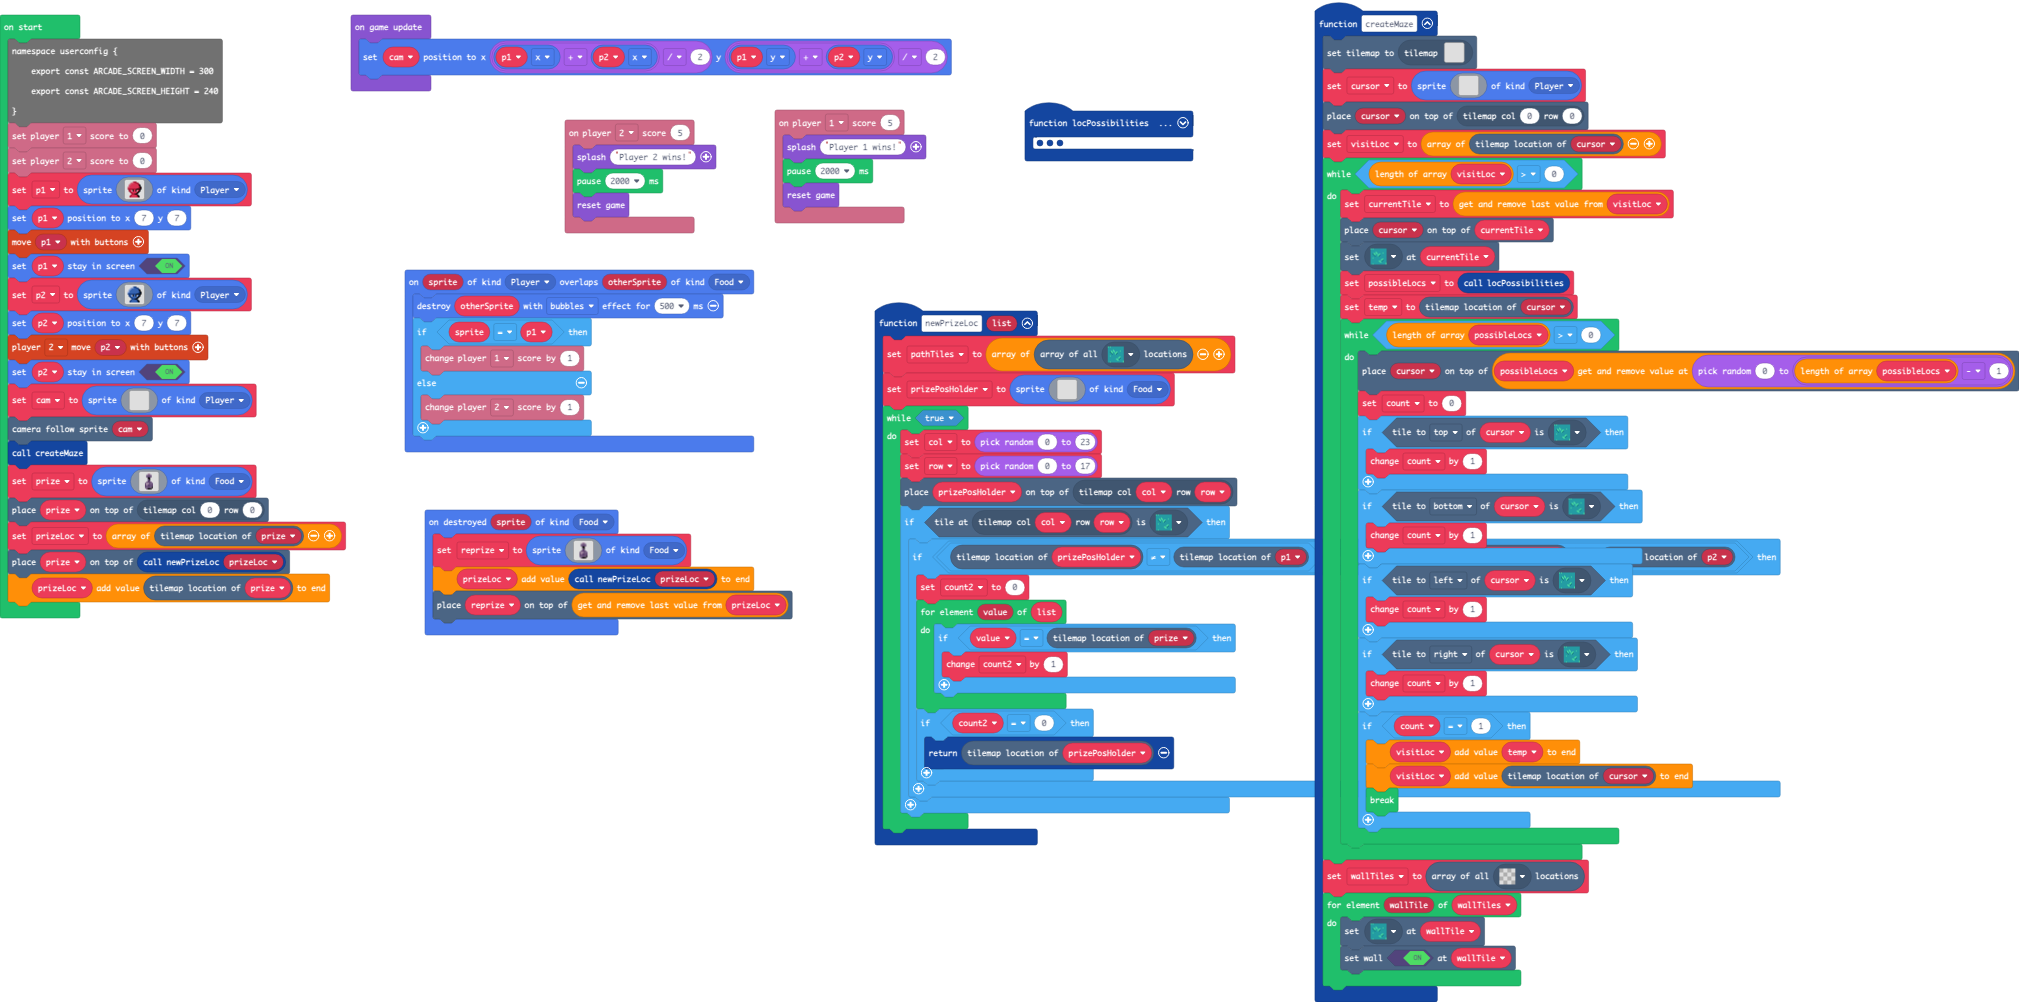
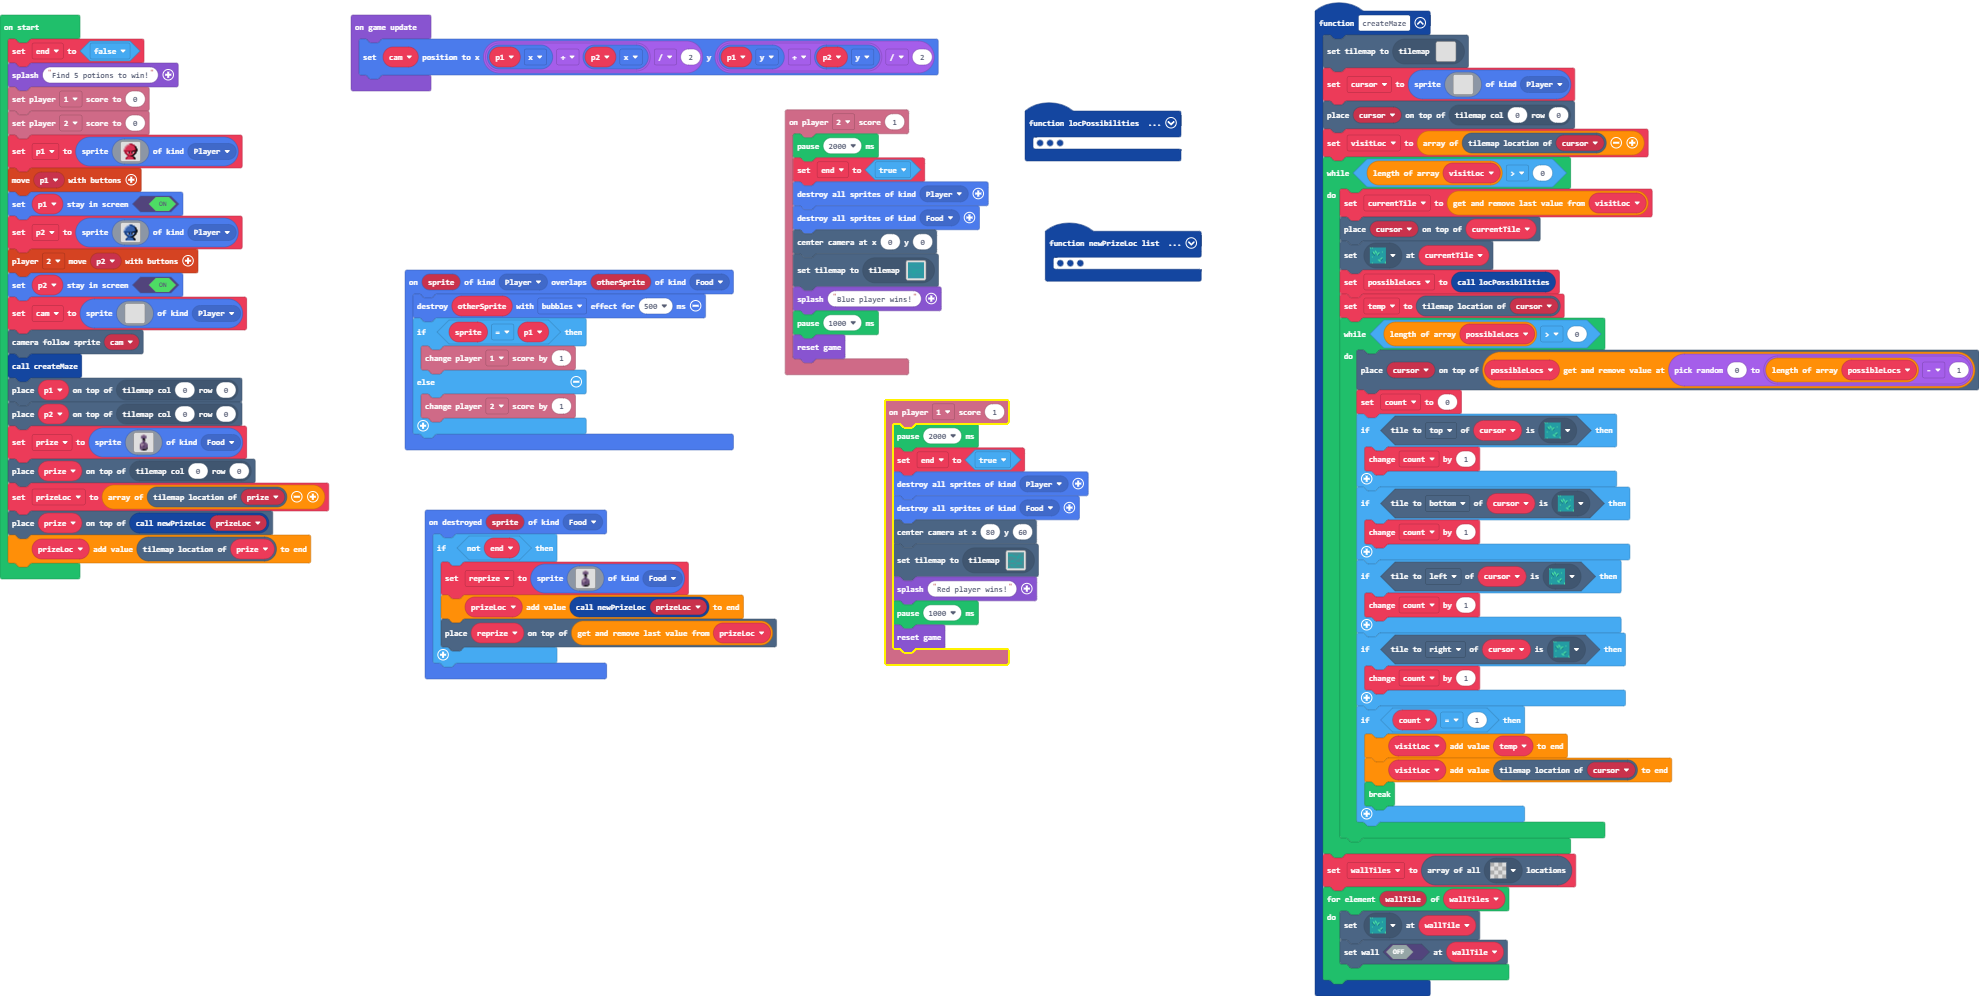
add end screen that deletes sprites; add if statement to respawn to prevent respawn on end screen

Changed region(s): [[0.1541, 0.0, 1.0, 1.0], [0.0, 0.0311, 0.4007, 0.6847], [0.524, 0.2179, 0.6165, 0.2801]]

diff --git a/tilemap.g.ts b/tilemap.g.ts
@@ -6,6 +6,10 @@ namespace myTiles {
     export const tile1 = image.ofBuffer(hex``);
     //% fixedInstance jres blockIdentity=images._tile
     export const tile2 = image.ofBuffer(hex``);
+    //% fixedInstance jres blockIdentity=images._tile
+    export const tile3 = image.ofBuffer(hex``);
+    //% fixedInstance jres blockIdentity=images._tile
+    export const tile4 = image.ofBuffer(hex``);
 
     helpers._registerFactory("tilemap", function(name: string) {
         switch(helpers.stringTrim(name)) {
@@ -65,6 +69,63 @@ namespace myTiles {
 . . . . . . . . . . . . . . . . . . . 
 . . . . . . . . . . . . . . . . . . . 
 `, [myTiles.transparency16], TileScale.Sixteen);
+            case "level5":
+            case "level5":return tiles.createTilemap(hex`1000100000000000000000000000000000000000000000000000000000000000000000000000000000000000000000000000000000000000000000000000000000000000000000000000000000000000000000000000000000000000000000000000000000000000000000000000000000000000000000000000000000000000000000000000000000000000000000000000000000000000000000000000000000000000000000000000000000000000000000000000000000000000000000000000000000000000000000000000000000000000000000000000000000000000000000000000000000000000000000000000000000000000000000000000000000000000`, img`
+. . . . . . . . . . . . . . . . 
+. . . . . . . . . . . . . . . . 
+. . . . . . . . . . . . . . . . 
+. . . . . . . . . . . . . . . . 
+. . . . . . . . . . . . . . . . 
+. . . . . . . . . . . . . . . . 
+. . . . . . . . . . . . . . . . 
+. . . . . . . . . . . . . . . . 
+. . . . . . . . . . . . . . . . 
+. . . . . . . . . . . . . . . . 
+. . . . . . . . . . . . . . . . 
+. . . . . . . . . . . . . . . . 
+. . . . . . . . . . . . . . . . 
+. . . . . . . . . . . . . . . . 
+. . . . . . . . . . . . . . . . 
+. . . . . . . . . . . . . . . . 
+`, [myTiles.transparency16], TileScale.Sixteen);
+            case "level6":
+            case "level6":return tiles.createTilemap(hex`1000100002020202020202020202020202020202020202020202020202020202020202020101010101020202020202010102020201010101010101020202010102020202020202020201010101010102020201020202020202020202020101010101010202020202020202020201020202020202020202020202010101020202020101010101020101010202020202020101020202010101010101010202020202020202020202020202020201010101010102020202020202020202020101010101020202020101010101010102020202020202020202010102020202020202020202020102020202010101020202020202020201010202020202020101010102020202`, img`
+. . . . . . . . . . . . . . . . 
+. . . . . . . . . . . . . . . . 
+. . . . . . . . . . . . . . . . 
+. . . . . . . . . . . . . . . . 
+. . . . . . . . . . . . . . . . 
+. . . . . . . . . . . . . . . . 
+. . . . . . . . . . . . . . . . 
+. . . . . . . . . . . . . . . . 
+. . . . . . . . . . . . . . . . 
+. . . . . . . . . . . . . . . . 
+. . . . . . . . . . . . . . . . 
+. . . . . . . . . . . . . . . . 
+. . . . . . . . . . . . . . . . 
+. . . . . . . . . . . . . . . . 
+. . . . . . . . . . . . . . . . 
+. . . . . . . . . . . . . . . . 
+`, [myTiles.transparency16,myTiles.tile1,myTiles.tile3], TileScale.Sixteen);
+            case "level4":
+            case "level4":return tiles.createTilemap(hex`1000100002020202020202020202020202020202020202020202020202020202020202020101010101010101010202020202020202020202020202020201010101020202020102020202020202020202020202020202010102020202020202020202020202020202010102020202020202020202020202020202010101010101010101020202010101010101010102010101020201010202010101010202010102020202010201010101010201010101010101010202020202010101020202020202020202020201010202020202020202020202020202020101010101010101010101020202020202020202020202020202020202020202020202020202020202020202`, img`
+. . . . . . . . . . . . . . . . 
+. . . . . . . . . . . . . . . . 
+. . . . . . . . . . . . . . . . 
+. . . . . . . . . . . . . . . . 
+. . . . . . . . . . . . . . . . 
+. . . . . . . . . . . . . . . . 
+. . . . . . . . . . . . . . . . 
+. . . . . . . . . . . . . . . . 
+. . . . . . . . . . . . . . . . 
+. . . . . . . . . . . . . . . . 
+. . . . . . . . . . . . . . . . 
+. . . . . . . . . . . . . . . . 
+. . . . . . . . . . . . . . . . 
+. . . . . . . . . . . . . . . . 
+. . . . . . . . . . . . . . . . 
+. . . . . . . . . . . . . . . . 
+`, [myTiles.transparency16,myTiles.tile1,myTiles.tile4], TileScale.Sixteen);
         }
         return null;
     })
@@ -76,6 +137,10 @@ namespace myTiles {
             case "tile1":return tile1;
             case "myTile0":
             case "tile2":return tile2;
+            case "redTile":
+            case "tile3":return tile3;
+            case "myTile2":
+            case "tile4":return tile4;
         }
         return null;
     })

diff --git a/main.ts b/main.ts
@@ -1,7 +1,20 @@
+info.player1.onScore(1, function () {
+    pause(2000)
+    end = true
+    sprites.destroyAllSpritesOfKind(SpriteKind.Player)
+    sprites.destroyAllSpritesOfKind(SpriteKind.Food)
+    scene.centerCameraAt(80, 60)
+    tiles.setCurrentTilemap(tilemap`level6`)
+    game.splash("Red player wins!")
+    pause(1000)
+    game.reset()
+})
 sprites.onDestroyed(SpriteKind.Food, function (sprite) {
-    reprize = sprites.create(assets.image`myImage0`, SpriteKind.Food)
-    prizeLoc.push(newPrizeLoc(prizeLoc))
-    tiles.placeOnTile(reprize, prizeLoc.pop())
+    if (!(end)) {
+        reprize = sprites.create(assets.image`myImage0`, SpriteKind.Food)
+        prizeLoc.push(newPrizeLoc(prizeLoc))
+        tiles.placeOnTile(reprize, prizeLoc.pop())
+    }
 })
 function newPrizeLoc (list: tiles.Location[]) {
     pathTiles = [tiles.getTilesByType(assets.tile`myTile`)]
@@ -59,6 +72,17 @@ function locPossibilities () {
     }
     return adjLoc
 }
+info.player2.onScore(1, function () {
+    pause(2000)
+    end = true
+    sprites.destroyAllSpritesOfKind(SpriteKind.Player)
+    sprites.destroyAllSpritesOfKind(SpriteKind.Food)
+    scene.centerCameraAt(0, 0)
+    tiles.setCurrentTilemap(tilemap`level4`)
+    game.splash("Blue player wins!")
+    pause(1000)
+    game.reset()
+})
 function createMaze () {
     tiles.setCurrentTilemap(tilemap`level1`)
     cursor = sprites.create(img`
@@ -112,14 +136,9 @@ function createMaze () {
     wallTiles = tiles.getTilesByType(assets.tile`transparency16`)
     for (let wallTile of wallTiles) {
         tiles.setTileAt(wallTile, assets.tile`myTile0`)
-        tiles.setWallAt(wallTile, true)
+        tiles.setWallAt(wallTile, false)
     }
 }
-info.player1.onScore(5, function () {
-    game.splash("Player 1 wins!")
-    pause(2000)
-    game.reset()
-})
 sprites.onOverlap(SpriteKind.Player, SpriteKind.Food, function (sprite, otherSprite) {
     sprites.destroy(otherSprite, effects.bubbles, 500)
     if (sprite == p1) {
@@ -127,11 +146,6 @@ sprites.onOverlap(SpriteKind.Player, SpriteKind.Food, function (sprite, otherSpr
     } else {
         info.player2.changeScoreBy(1)
     }
-})
-info.player2.onScore(5, function () {
-    game.splash("Player 2 wins!")
-    pause(2000)
-    game.reset()
 })
 let wallTiles: tiles.Location[] = []
 let count = 0
@@ -152,18 +166,15 @@ let prizeLoc: tiles.Location[] = []
 let prize: Sprite = null
 let p2: Sprite = null
 let p1: Sprite = null
-namespace userconfig {
-    export const ARCADE_SCREEN_WIDTH = 300
-    export const ARCADE_SCREEN_HEIGHT = 240
-}
+let end = false
+end = false
+game.splash("Find 5 potions to win!")
 info.player1.setScore(0)
 info.player2.setScore(0)
 p1 = sprites.create(assets.image`redPlayer`, SpriteKind.Player)
-p1.setPosition(7, 7)
 controller.moveSprite(p1)
 p1.setStayInScreen(true)
 p2 = sprites.create(assets.image`bluePlayer`, SpriteKind.Player)
-p2.setPosition(7, 7)
 controller.player2.moveSprite(p2)
 p2.setStayInScreen(true)
 let cam = sprites.create(img`
@@ -186,6 +197,8 @@ let cam = sprites.create(img`
     `, SpriteKind.Player)
 scene.cameraFollowSprite(cam)
 createMaze()
+tiles.placeOnTile(p1, tiles.getTileLocation(0, 0))
+tiles.placeOnTile(p2, tiles.getTileLocation(0, 0))
 prize = sprites.create(assets.image`myImage0`, SpriteKind.Food)
 tiles.placeOnTile(prize, tiles.getTileLocation(0, 0))
 prizeLoc = [prize.tilemapLocation()]
